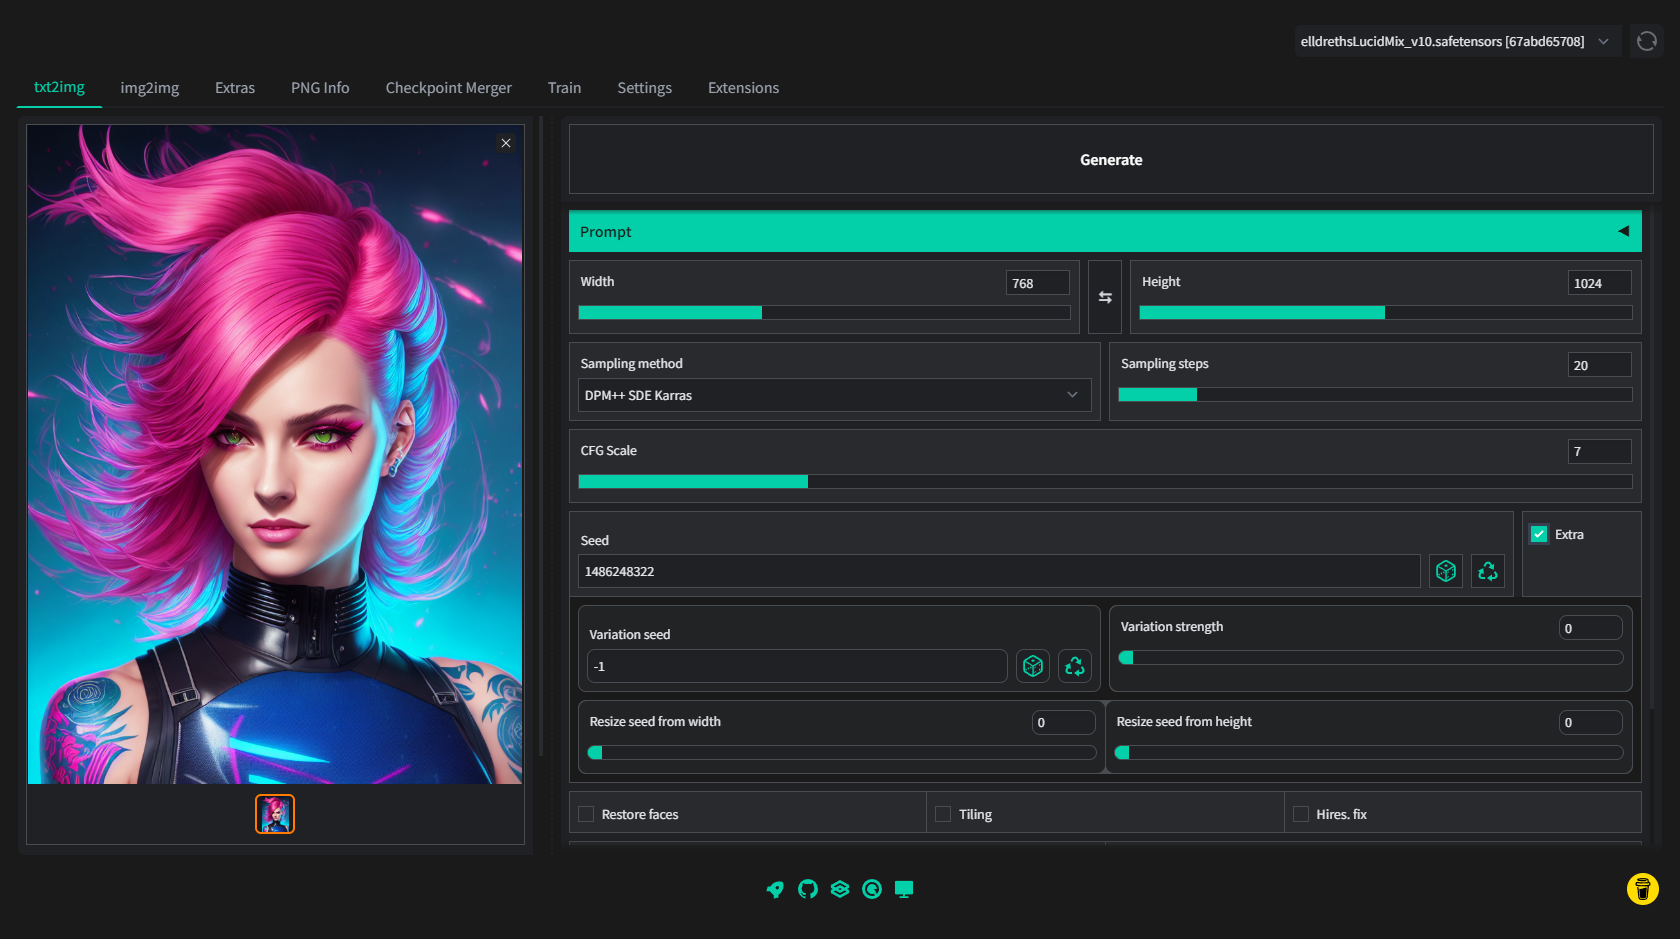
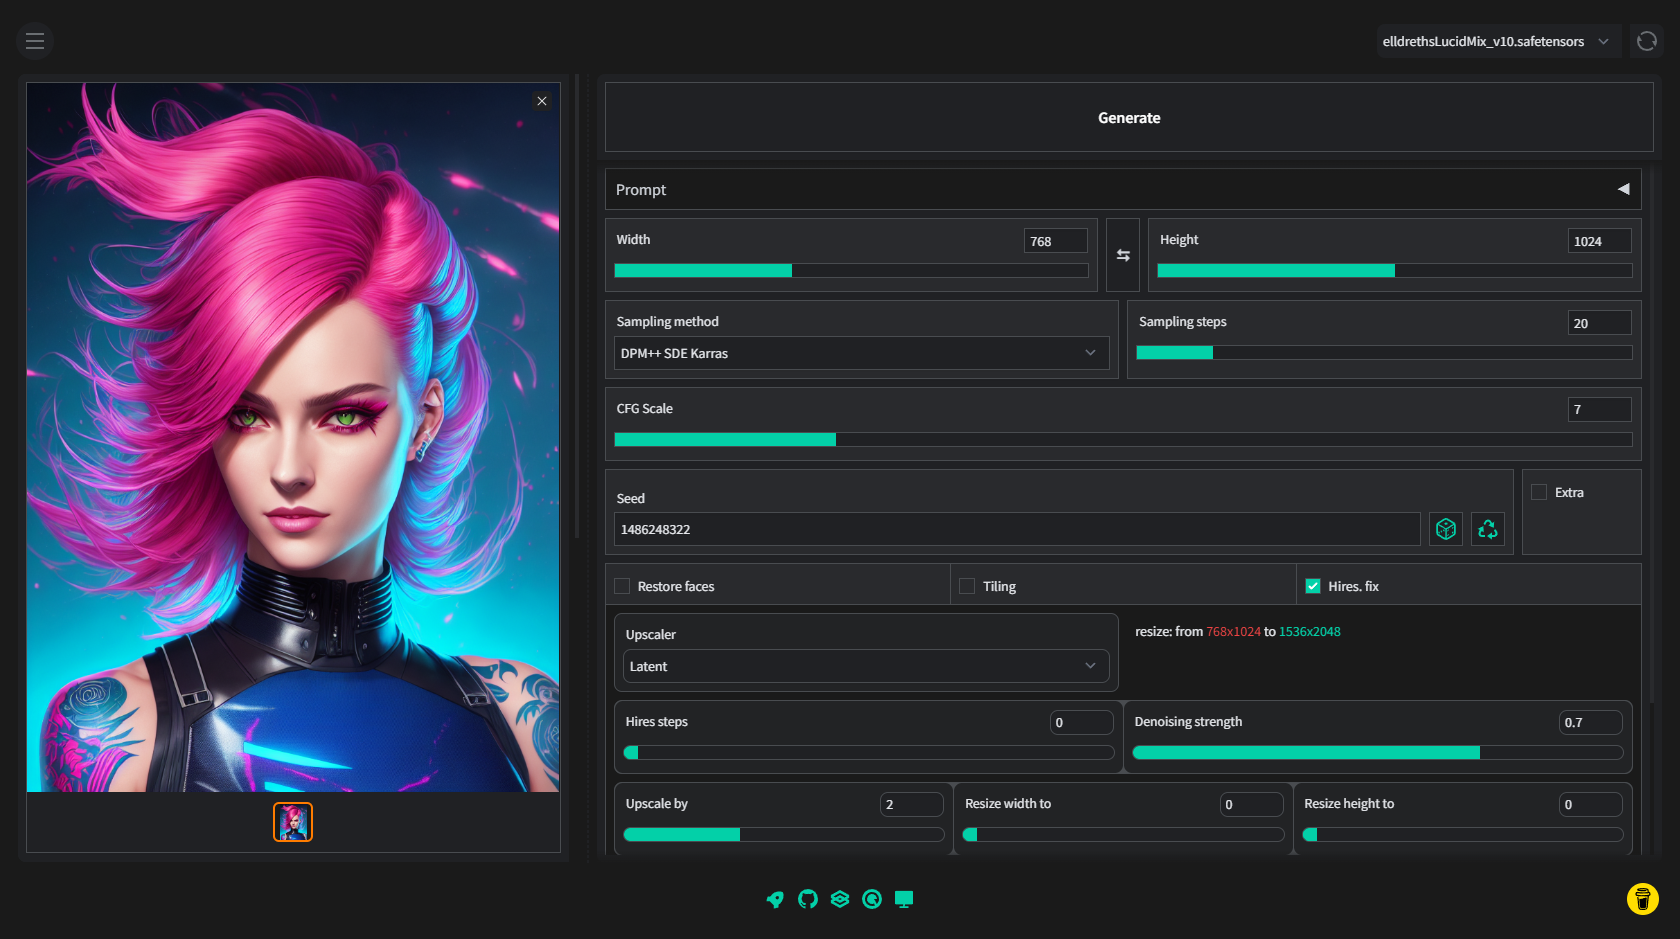
mobile menu

diff --git a/style.css b/style.css
@@ -342,9 +342,131 @@
     color: var(--primary-color);
 }
 
+/* offcanvas menu */
+#tabs > div:first-child {
+    position: fixed;
+    z-index: 9999;
+    display: block;
+    width: 90%;
+    height: 100%;
+    /*background-color: black !important;*/
+    top: 0;
+    padding-top: 70px;
+    left:0;
+    max-width: 320px;
+	transform: translateX(-100%);
+	transition: all 0.25s ease 0s;
+    box-shadow: rgba(0,0,0,0)-30px 0 30px 30px;
+	overflow-y: auto;
+
+}
+
+#tabs > div:first-child.open {
+    transform: translateX(0);
+	box-shadow: rgba(0,0,0,0.4)-30px 0 30px 30px;
+}
+
+
+#tabs > div:first-child > button {
+    display: block;
+    width: 320px;
+    text-align: left;
+    background-color: transparent !important;
+    border-top: 2px !important;
+    border-left: 0;
+    border-right: 0;
+    border-radius: 0 !important;
+    border-bottom: 2px !important;
+	padding-left: 20px;
+}
+
+
+
+
+#tabs > div:first-child > button:hover{	
+
+    background-color: var(--primary-color) !important;
+	color: var(--bg-main-color) !important;
+
+}
+
+#tabs > #nav_menu {
+    z-index: 9999;
+    background-color: var(--input-bg-color);
+    position: absolute;
+    width: 38px;
+    height: 38px;
+    top: -2px;
+    left: 0;
+    border-radius: 100%;
+    cursor: pointer;
+}
+
+#tabs > #nav_menu.fixed {
+	position: fixed;
+}
+
+#tabs > #nav_menu::before {
+    content: ' ';
+    display: inline-block;
+    -webkit-mask-size: cover;
+    mask-size: cover;
+    background-color: var(--icon-color);
+    width: var(--icon-size);
+    height: var(--icon-size);
+    -webkit-mask: url(./file=html/svg/menu-line.svg) no-repeat 50% 50%;
+    mask: url(./file=html/svg/menu-line.svg) no-repeat 50% 50%;
+    cursor: pointer;
+    position: relative;
+    left: 50%;
+    top: 50%;
+    transform: translate(-50%, -50%) scale(1.0);
+    
+}
+
+#tabs > #nav_menu:hover {
+	background-color: var(--primary-color);
+}
+#tabs > #nav_menu:hover::before {
+	background-color: var(--main-bg-color);
+}
+
+/* footer to bottom of page */
+.min-h-screen > .mx-auto.container{
+	display:flex; flex-direction:column;
+	min-height: 100vh; margin:0;
+}
+
+.min-h-screen > .mx-auto.container > div{
+	
+}
+
+.min-h-screen > .mx-auto.container > div > #tabs{
+	flex:1;
+}
+
+.min-h-screen > .mx-auto.container > div > #footer{
+	 min-height:32px;
+}
+
+.min-h-screen > .mx-auto.container > div > #quicksettings{
+	 min-height:34px;
+}
+
+
+
+
+
+
+
+/* what is this find out */
+#settings_json{
+	display:none !important;
+}
+
+
 
 /* form seperator */
-
 .dark .dark\:bg-gray-700 {
     background-color: var(--panel-border-color) !important;
 }
@@ -902,6 +1024,8 @@ display:none;
 #quicksettings .gr-input {
 padding-right: 37px;
 width: auto;
+max-width: 245px;
+min-height: 34px;
 }
 
 /***************************/
@@ -1009,7 +1133,8 @@ width: auto;
 
 [id$="2img_settings_scroll"]
 {
-    height: calc(100vh - 296px);
+	/* need to calculate this */
+    height: calc(100vh - 244px);
     overflow-y: auto !important;
     overflow-x: hidden;
     padding-top: var(--outside-gap-size);
@@ -1127,7 +1252,7 @@ canvas[key=mask] {
     content: "";
     position: absolute;
     z-index: 1;
-    height: calc(100vh - 288px);
+    height: calc(100vh - 235px);
     top: calc(var(--generate-button-height) + (var(--outside-gap-size) * 2.0));
     left: 0;
     bottom: 0;
@@ -1144,7 +1269,7 @@ canvas[key=mask] {
 [id$="2img_results"]
 {
     overflow-x: hidden !important;   
-    max-height: calc(100vh - 200px);
+    max-height: calc(100vh - 151px);
     overflow-y: auto !important;
 }
 
@@ -1171,14 +1296,14 @@ canvas[key=mask] {
 {
 
     width: 100%;
-	max-height: calc(100vh - 220px) !important;
-	min-height: calc(100vh - 220px) !important;
+	max-height: calc(100vh - 170px) !important;
+	min-height: calc(100vh - 170px) !important;
     overflow-x: hidden !important;
 }
 
 [id$="2img_gallery"] .overflow-y-auto>div:first-child
 {
-    height: calc(100vh - 237px);
+    height: calc(100vh - 187px);
 }
 
 [id$="2img_gallery"] div>img
@@ -1195,7 +1320,7 @@ canvas[key=mask] {
     min-height: auto;
     width: 100%;
     min-width: 100%;
-    max-height: calc(100vh - 215px);
+    max-height: calc(100vh - 170px);
 }
 
 [id$="2img_gallery"] img+div
@@ -1215,7 +1340,7 @@ canvas[key=mask] {
 .livePreview {
     position: absolute !important;
     width: calc(100% - 18px) !important;
-    max-height: calc(100vh - 280px) !important;
+    max-height: calc(100vh - 231px) !important;
     top: 9px;
     left: 9px;
     right: 0;

diff --git a/javascript/ui.js b/javascript/ui.js
@@ -85,7 +85,7 @@ function switch_to_extras(){
 function get_tab_index(tabId){
     var res = 0
 
-    gradioApp().getElementById(tabId).querySelector('div').querySelectorAll('button').forEach(function(button, i){
+    gradioApp().getElementById(tabId).querySelector('div').querySelectorAll('button').forEach(function(button, i){		
         if(button.className.indexOf('bg-white') != -1)
             res = i
     })
@@ -350,6 +350,35 @@ onUiUpdate(function(){
 		})
 
 	})
+	
+	// mobile nav menu
+	const tabs_menu = gradioApp().querySelector('#tabs > div:first-child');
+	const nav_menu = gradioApp().querySelector('#nav_menu');
+	let menu_open = false;
+	function toggleNavMenu() {
+		menu_open = !menu_open;			
+		if(menu_open){
+			tabs_menu.classList.add("open");
+			nav_menu.classList.add("fixed");
+		}else{
+			tabs_menu.classList.remove("open");
+			nav_menu.classList.remove("fixed");
+		}
+	}
+		
+    nav_menu.addEventListener('click', toggleNavMenu);
+	
+	tabs_menu.addEventListener("click", function(e) {
+			e.preventDefault();
+			menu_open = false;
+			tabs_menu.classList.remove("open");
+			nav_menu.classList.remove("fixed");			
+    })
+	
+	
+	
+	
+	
 	
 	
 })

diff --git a/modules/ui.py b/modules/ui.py
@@ -1642,6 +1642,7 @@ def create_ui():
         parameters_copypaste.connect_paste_params_buttons()
 
         with gr.Tabs(elem_id="tabs") as tabs:
+            gr.Row(elem_id="nav_menu")
             for interface, label, ifid in interfaces:
                 with gr.TabItem(label, id=ifid, elem_id='tab_' + ifid):
                     interface.render()
